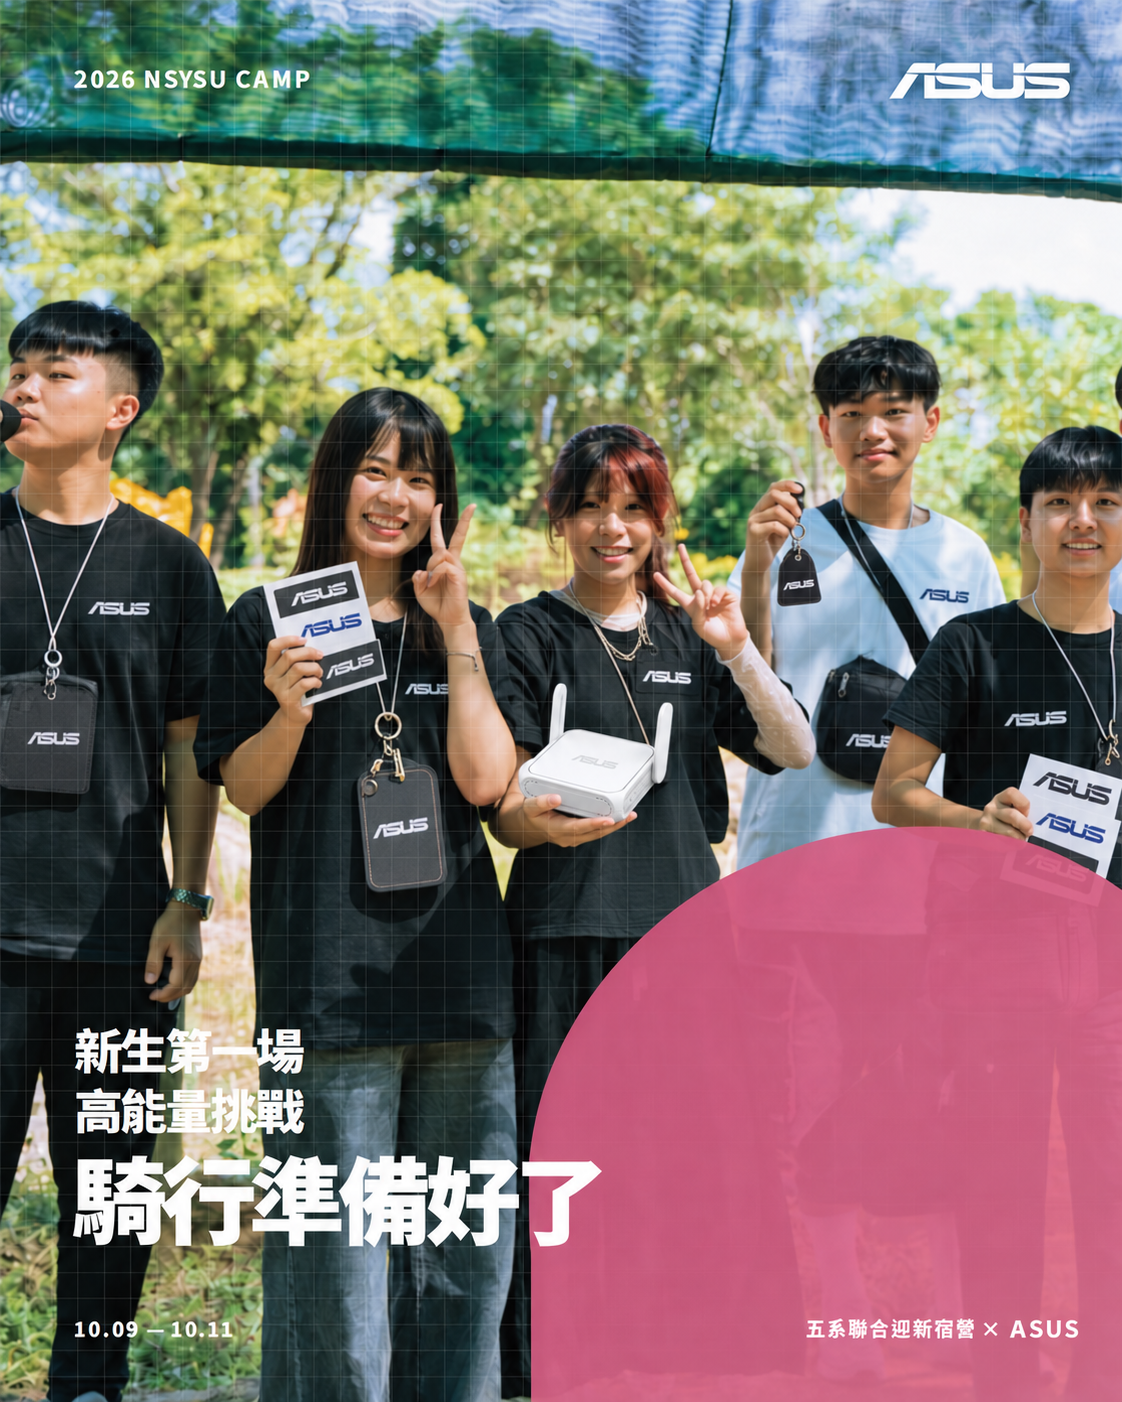
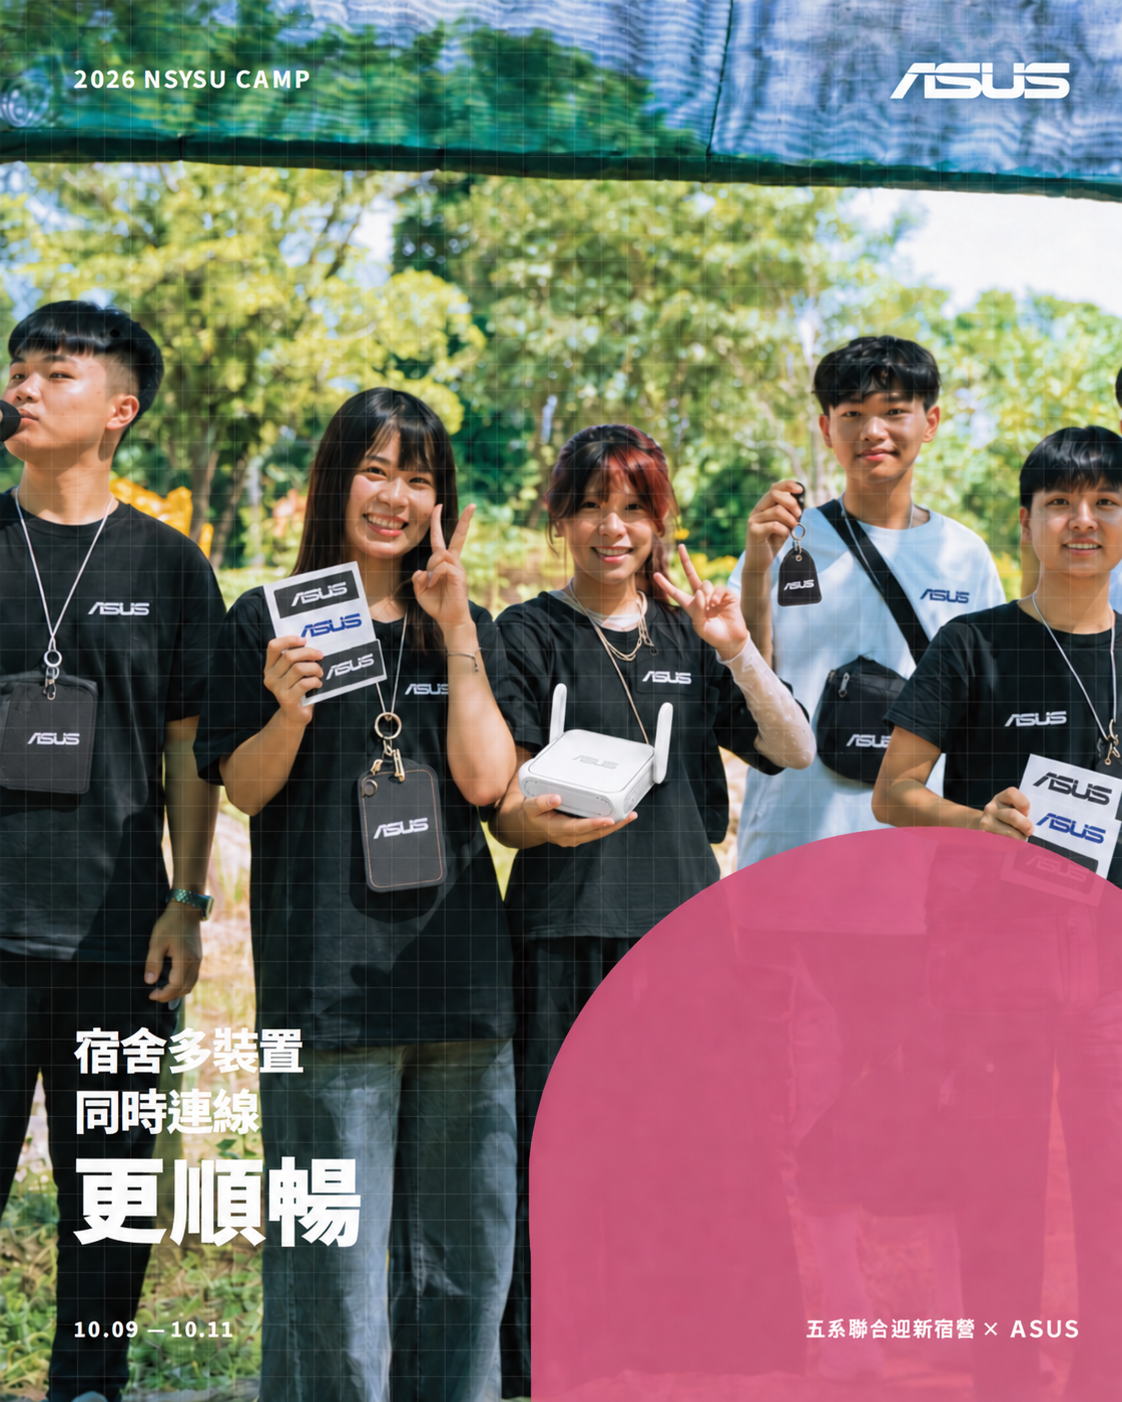
fix(asus): align social graphics with router use

diff --git a/asus/script.js b/asus/script.js
@@ -8,9 +8,9 @@ const observer = new IntersectionObserver((entries) => { const current = entries
 pages.forEach((page) => observer.observe(page));
 
 const posts = [
-  { image: 'assets/instagram/01-before-asus.png', alt: '華碩 ASUS RT-BE58 Go 活動前合作貼文', caption: '新生集合前，先把連線需求想清楚。RT-BE58 Go 的抽獎合作示意，聚焦多人多裝置的宿舍日常。', label: '貼文方向一｜活動前' },
-  { image: 'assets/instagram/02-during-asus.png', alt: '華碩 ASUS RT-BE58 Go 活動中合作貼文', caption: '闖關告一段落，現場的 RT-BE58 Go 體驗展示也吸引不少同學停下來看看。商品資訊與露出方式都會依華碩最終確認執行。', label: '貼文方向二｜活動中' },
-  { image: 'assets/instagram/03-after-asus.png', alt: '華碩 ASUS RT-BE58 Go 活動後合作貼文', caption: '三天兩夜結束，晚會抽獎的好心情還在延續。謝謝華碩評估支持新生的連線日常，讓實用的數位工具成為新生活的一份驚喜。', label: '貼文方向三｜活動後' },
+  { image: 'assets/instagram/01-before-asus.png', alt: '華碩 ASUS RT-BE58 Go 活動前合作貼文', caption: '宿舍多裝置同時連線，更順暢。RT-BE58 Go 的抽獎合作示意，聚焦新生的連線日常。', label: '貼文方向一｜活動前' },
+  { image: 'assets/instagram/02-during-asus.png', alt: '華碩 ASUS RT-BE58 Go 活動中合作貼文', caption: '穩定連線，探索更多大學新生活。現場的 RT-BE58 Go 體驗展示與商品資訊，皆會依華碩最終確認執行。', label: '貼文方向二｜活動中' },
+  { image: 'assets/instagram/03-after-asus.png', alt: '華碩 ASUS RT-BE58 Go 活動後合作貼文', caption: '三天兩夜，連上彼此，共同回憶。謝謝華碩評估支持新生的連線日常，讓實用的數位工具成為新生活的一份驚喜。', label: '貼文方向三｜活動後' },
 ];
 let currentPost = 0;
 const postImage = document.querySelector('#instagram-image');

diff --git a/asus/instagram-captions.md b/asus/instagram-captions.md
@@ -4,12 +4,12 @@
 
 ## 活動前
 
-新生集合前，先把連線需求想清楚。若合作成案，我們會以 ASUS RT-BE58 Go 作為晚會抽獎品的示意，邀請大家認識更適合多裝置日常的網路選擇。
+宿舍多裝置同時連線，更順暢。若合作成案，我們會以 ASUS RT-BE58 Go 作為晚會抽獎品的示意，邀請大家認識更適合多裝置日常的網路選擇。
 
 ## 活動中
 
-闖關告一段落，現場的 ASUS RT-BE58 Go 體驗展示也吸引不少同學停下來看看。商品資訊與露出方式都會依華碩最終確認執行。
+穩定連線，探索更多大學新生活。現場的 ASUS RT-BE58 Go 體驗展示與商品資訊，都會依華碩最終確認執行。
 
 ## 活動後
 
-三天兩夜結束，晚會抽獎的好心情還在延續。謝謝華碩評估支持新生的連線日常，讓實用的數位工具成為新生活的一份驚喜。
+三天兩夜，連上彼此，共同回憶。謝謝華碩評估支持新生的連線日常，讓實用的數位工具成為新生活的一份驚喜。
